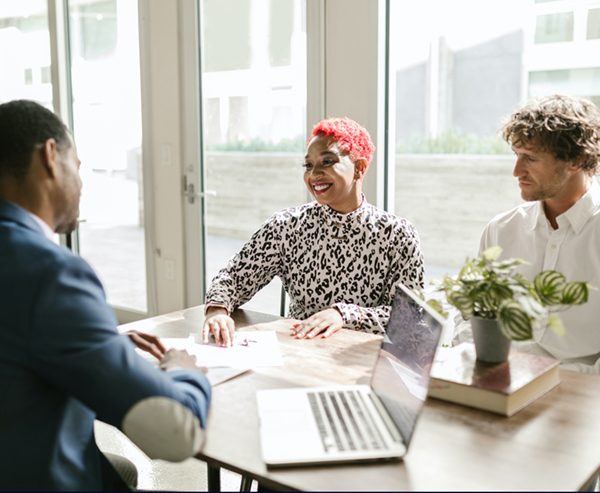
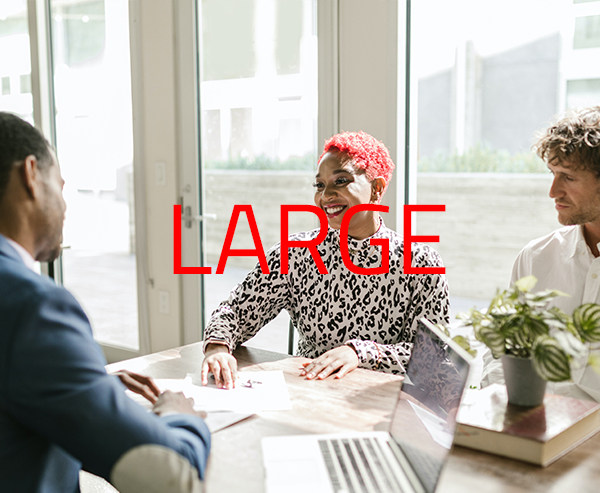
updated images

diff --git a/chamber/styles/small.css b/chamber/styles/small.css
@@ -286,7 +286,7 @@ footer p, a {
 }
 
 .featured img {
-    position: relative;
+    object-fit:cover;
     width: 100%;
     height: 100%;
 }
